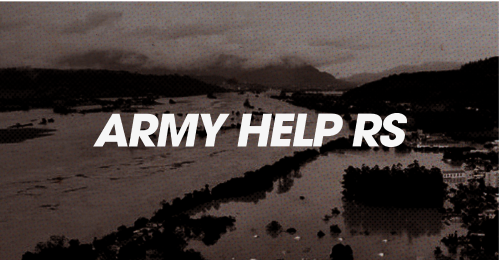
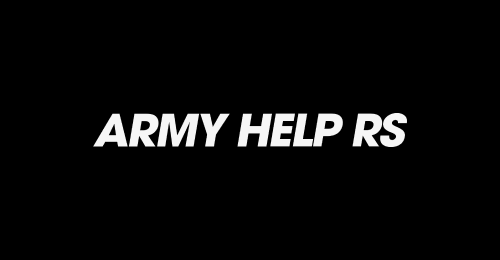
fundo

diff --git a/src/style.css b/src/style.css
@@ -10,7 +10,10 @@ header{
     width: 100%;
 }
 main{
-    background-color: white;
+    /* background-color: white; */
+    background-image: url("/src/images/FUNDO.png");
+    background-repeat: no-repeat;
+    background-size: cover;
     width: 100%;
 }
 
@@ -20,7 +23,7 @@ footer{
 }
 
 .card{
-    background-color: #574F4C;
+    background-color: whitesmoke;
 }
 .card:hover{
     background-color: black;
